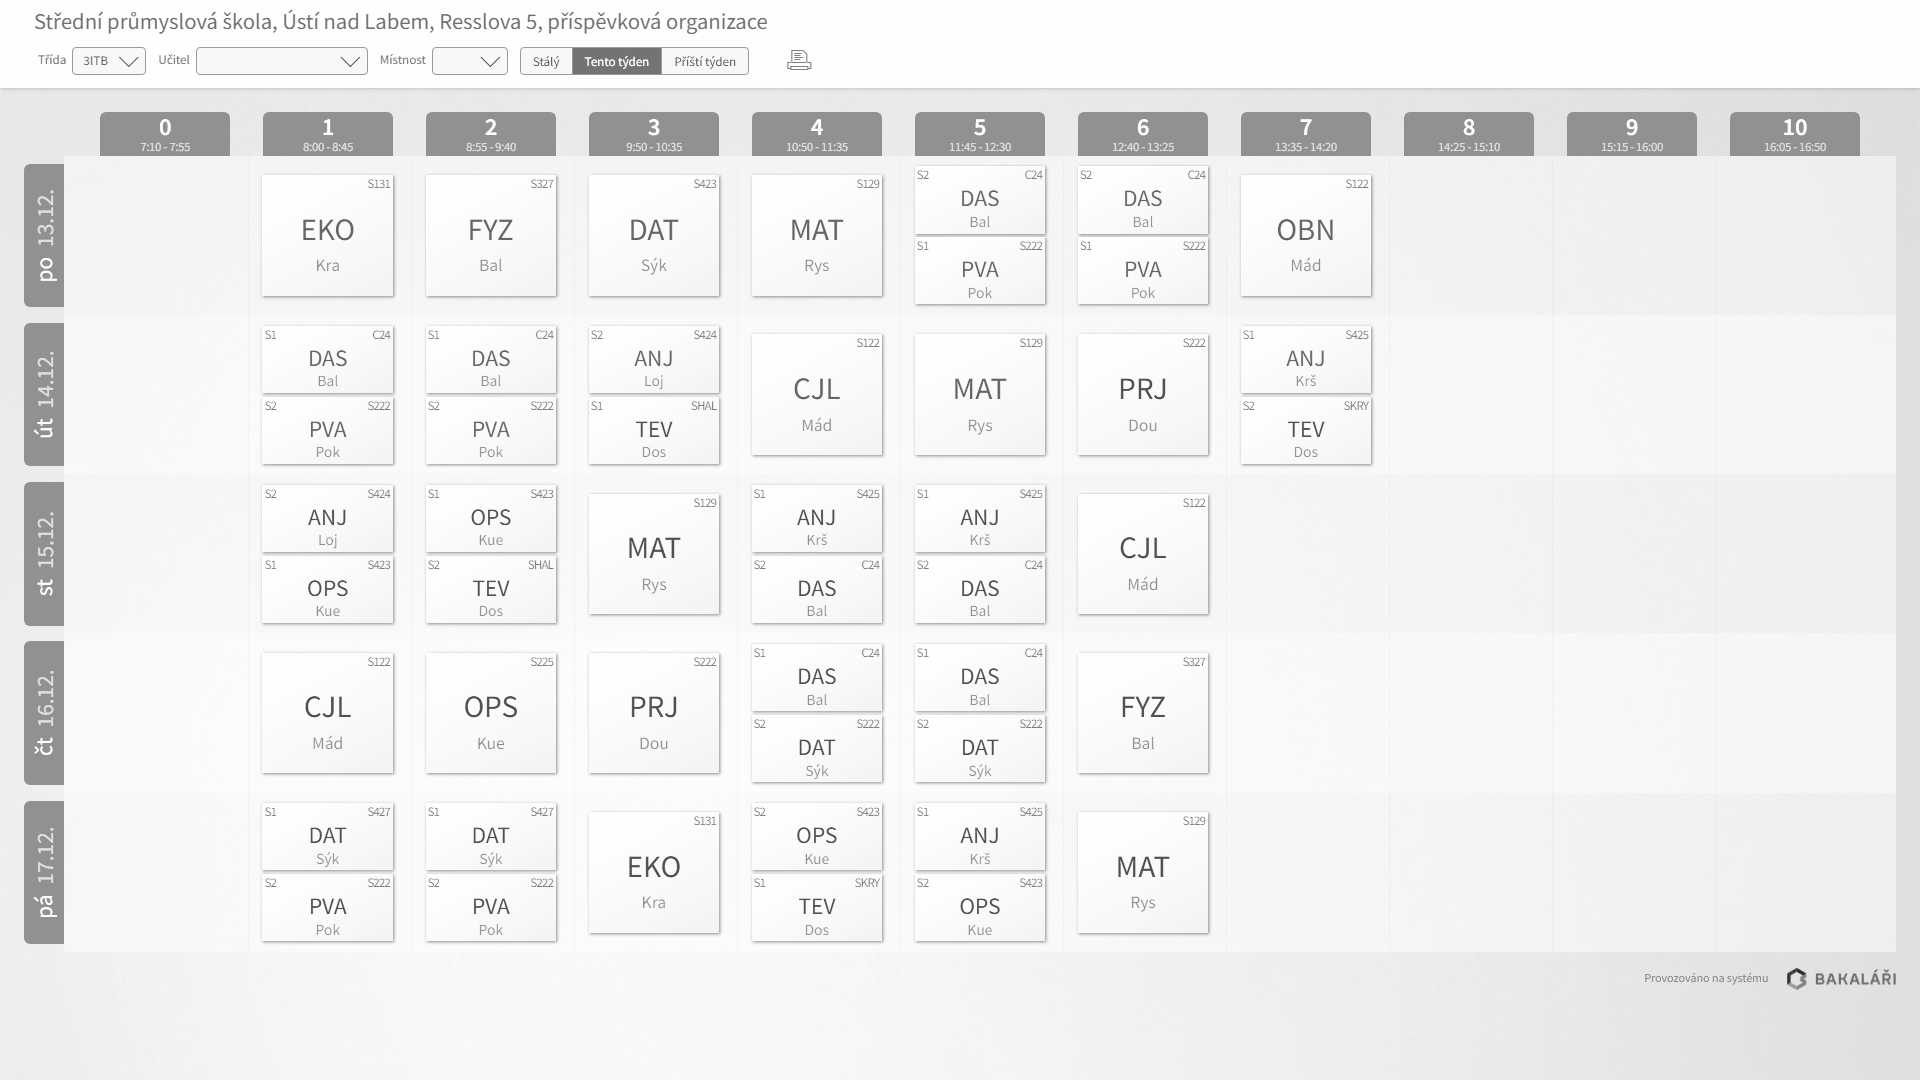
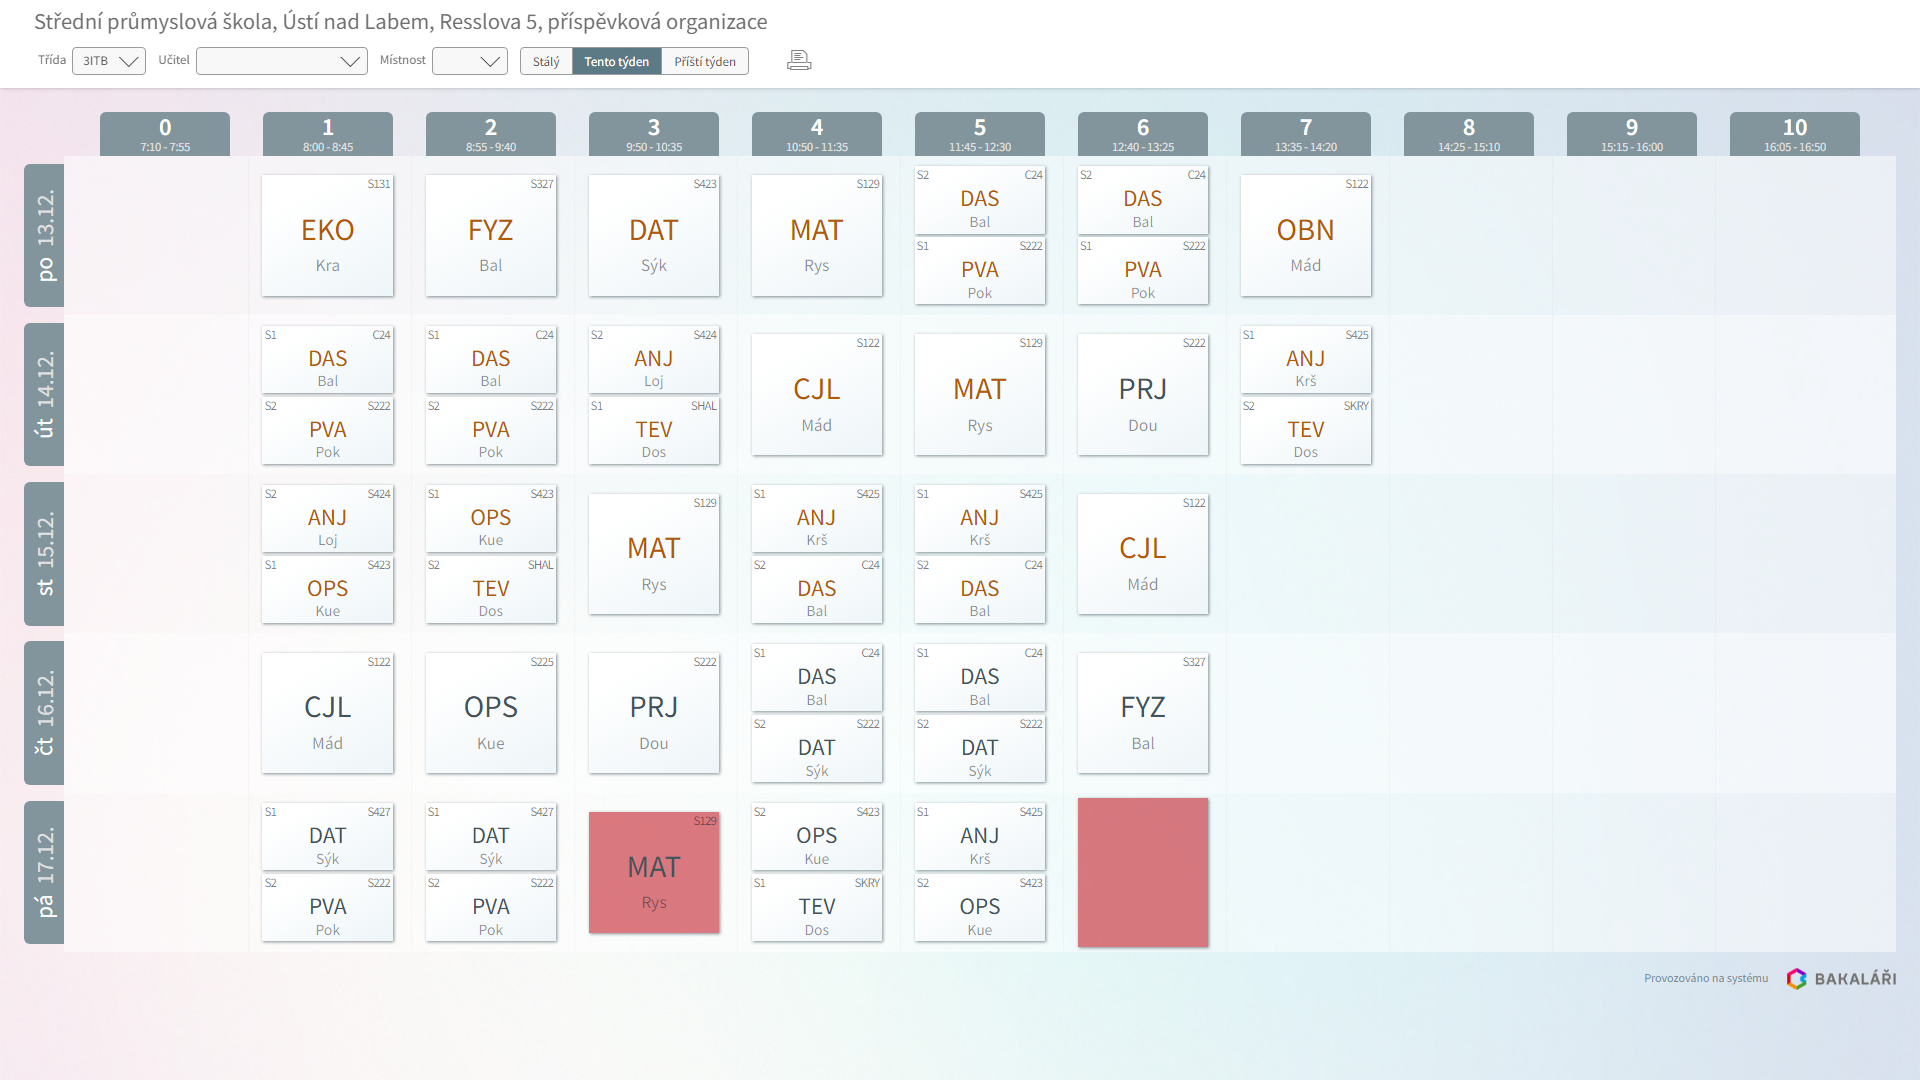
bug fix

diff --git a/main.js b/main.js
@@ -26,10 +26,10 @@ async function checkSupl() {
     ])
     await page.screenshot({ path: 'screenshot.png' });
 
-    const image = await jimp.read('screenshot.png');
-    await image.greyscale().write("screenshot.png");
+    //const image = await jimp.read('screenshot.png');
+    //await image.greyscale().write("screenshot.png");
 
-    await looksSame('screenshot.png', 'screenshot_old.png', function(error, {equal}) {
+    await looksSame('screenshot.png', 'screenshot_old.png', {tolerance: 50}, function(error, {equal}) {
       	if (equal) {
         	console.log("Same");
       	}
@@ -42,6 +42,7 @@ async function checkSupl() {
 
     fs.unlinkSync("screenshot_old.png");
     fs.renameSync("screenshot.png", "screenshot_old.png")
+
     await browser.close();
 }
 
